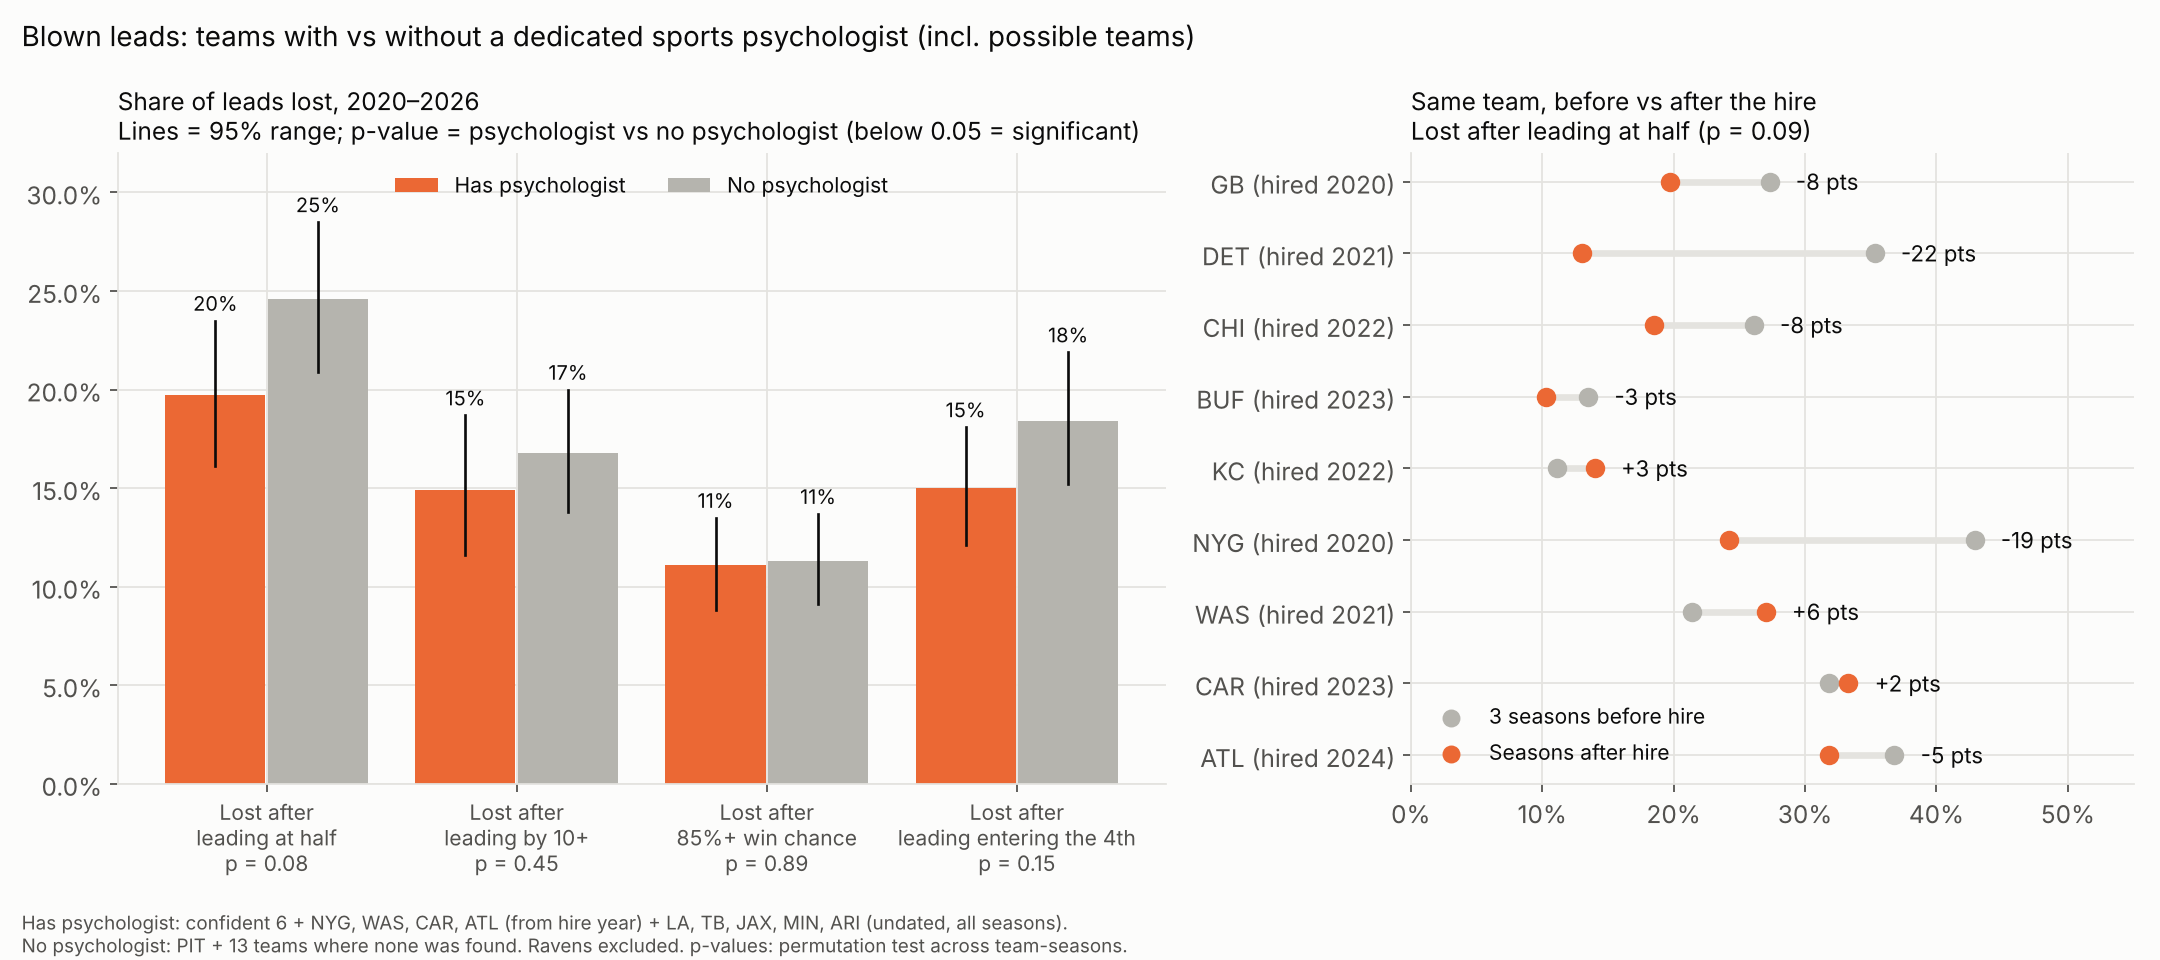
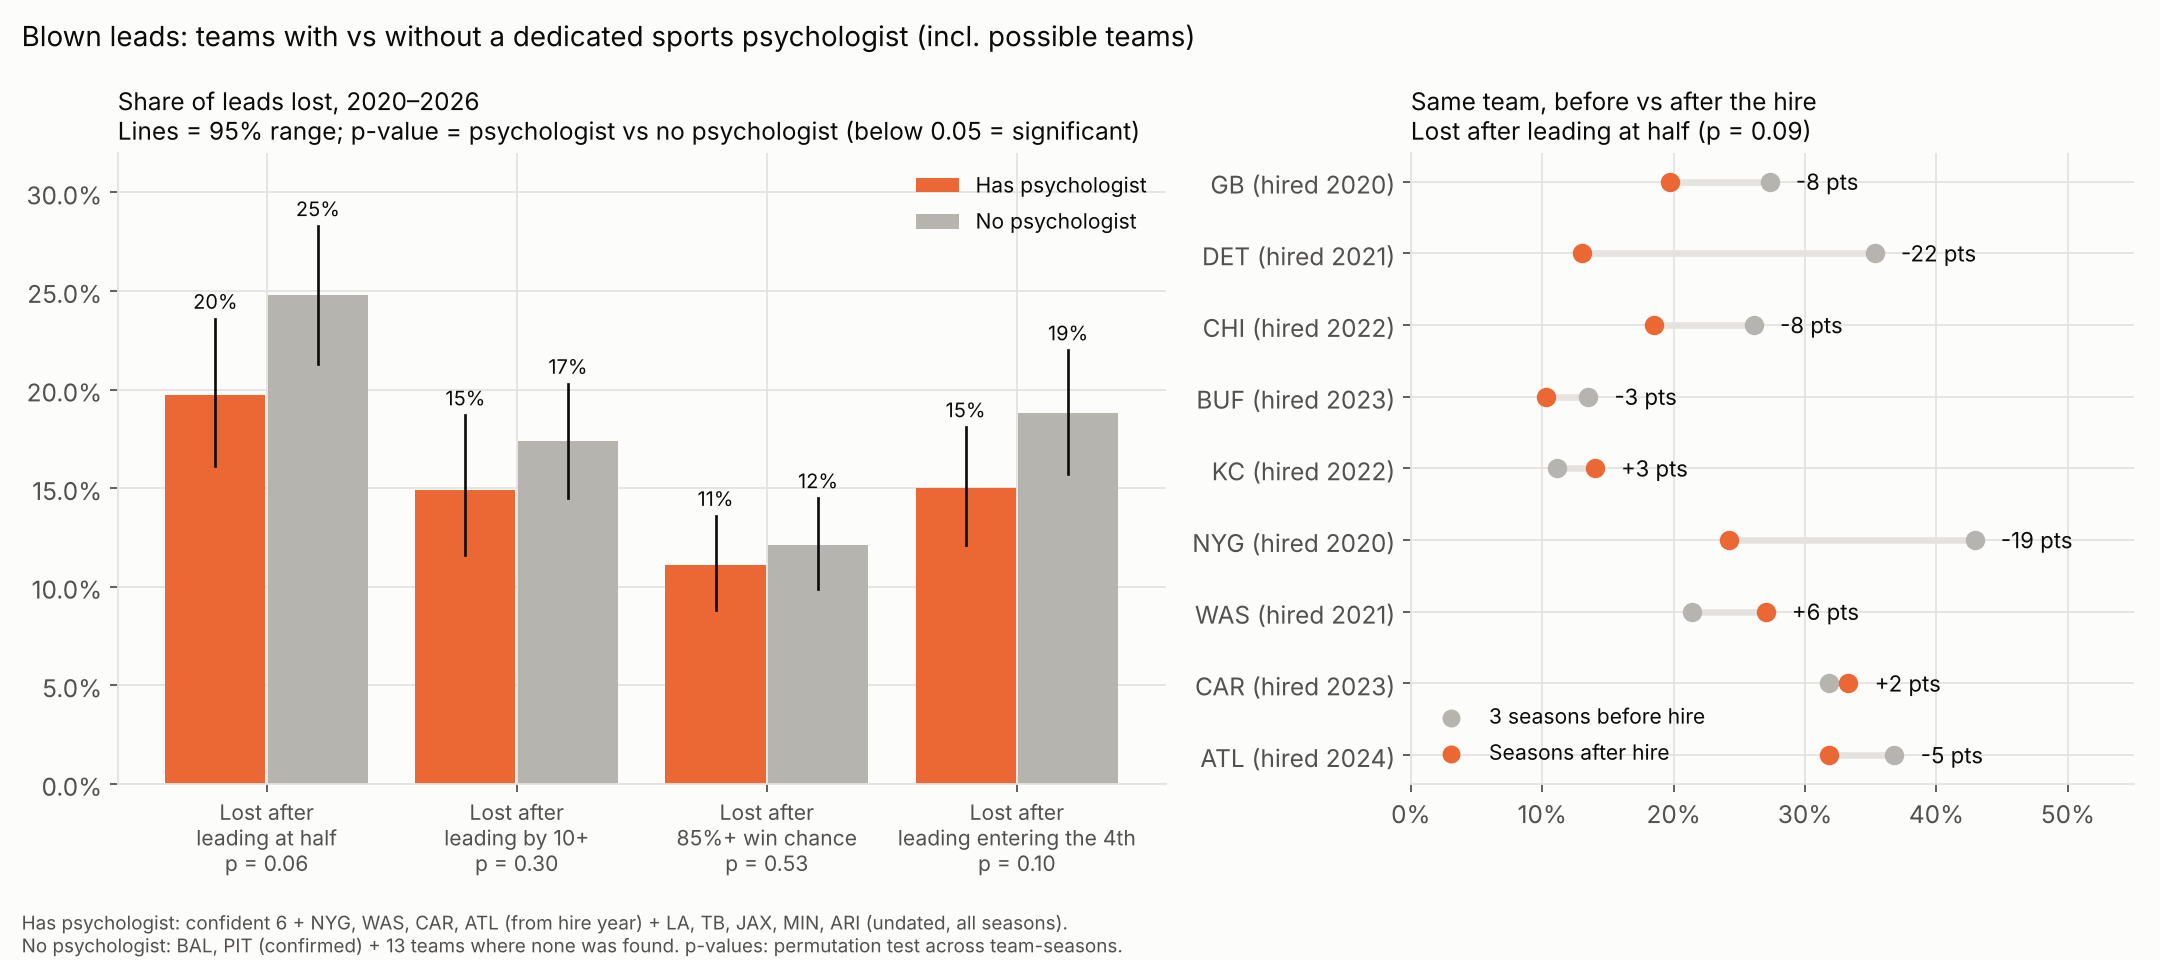
Ravens study: put Ravens in the no-psychologist group for the psychologist comparisons
Claude-Session: https://claude.ai/code/session_01VaajPvovMVPsxphuCeQMVX

diff --git a/analysis/ravens-second-half/charts.py b/analysis/ravens-second-half/charts.py
@@ -190,11 +190,11 @@ def psych_charts(suf, has_label, title_note):
     a2.set_yticks(y, [f'{t} (hired {h})' for t, h in zip(ba.team, ba.hire_season)])
     a2.set_xlim(.15, .95); a2.xaxis.set_major_formatter(matplotlib.ticker.PercentFormatter(1))
     a2.scatter([], [], color=GRAY, s=50, label='3 seasons before hire'); a2.scatter([], [], color=ORANGE, s=50, label='Seasons after hire')
-    a2.legend(frameon=False, loc='lower right', fontsize=9.5)
+    a2.legend(frameon=False, loc='lower left' if suf == '' else 'lower right', fontsize=9.5)
     a2.set_title(f'Same team, before vs after the hire (teams with a known hire year)\np = {p_pair:.2f}', loc='left', fontsize=11)
     gap = pw.loc[names[0], 'win_pct'] - pw.loc[names[1], 'win_pct']
     fig.suptitle(f'Win %: teams with vs without a dedicated sports psychologist {title_note}', x=.01, ha='left', fontsize=12.5)
-    fig.text(.01, .008, f'Has psychologist: {has_label}.\nNo psychologist: PIT + 13 teams where none was found. Ravens excluded. '
+    fig.text(.01, .008, f'Has psychologist: {has_label}.\nNo psychologist: BAL, PIT (confirmed) + 13 teams where none was found. '
              f'Gap {gap * 100:+.0f} pts; p across teams = {p_team:.2f}. Ties = half a win.', fontsize=8.5, color=INK2)
     fig.tight_layout(rect=[0, .06, 1, 1]); fig.savefig(f'{out}/chart_psych_wins{suf}.png', dpi=160); plt.close(fig)
 
@@ -204,8 +204,6 @@ def psych_charts(suf, has_label, title_note):
     labels = ['Lost after leading at half', 'Lost after leading by 10+', 'Lost after 85%+ win chance', 'Lost after leading entering the 4th']
     x = np.arange(len(labels)); w = .36
     groups_ = [('Has psychologist', ORANGE), ('No psychologist', GRAY)]
-    if suf == '':
-        groups_ = [('Ravens', BLUE)] + groups_
     n_ = len(groups_); w = .8 / n_
     for j, (grp_name, col) in enumerate(groups_):
         sub = pb[pb.group == grp_name].set_index('metric').loc[labels]
@@ -216,8 +214,8 @@ def psych_charts(suf, has_label, title_note):
             a1.text(xx, r.ci_high + .005, f'{r.pooled_rate:.0%}', ha='center', fontsize=9)
     tests = pb[pb.group == 'TEST'].set_index('metric').loc[labels]
     a1.set_xticks(x, [f'{l.replace("Lost after ", "Lost after\n")}\np = {tests.loc[l, "p_perm_pooled"]:.2f}' for l in labels], fontsize=9.5)
-    a1.yaxis.set_major_formatter(matplotlib.ticker.PercentFormatter(1)); a1.set_ylim(0, .47 if suf == '' else .32)
-    a1.legend(frameon=False, loc='upper center', ncol=3, fontsize=9.5)
+    a1.yaxis.set_major_formatter(matplotlib.ticker.PercentFormatter(1)); a1.set_ylim(0, .32)
+    a1.legend(frameon=False, loc='upper right', fontsize=9.5)
     a1.set_title('Share of leads lost, 2020–2026\nLines = 95% range; p-value = psychologist vs no psychologist (below 0.05 = significant)', loc='left', fontsize=11)
     y = np.arange(len(bb))[::-1]
     for yy, r in zip(y, bb.itertuples()):
@@ -232,9 +230,8 @@ def psych_charts(suf, has_label, title_note):
     p_pair = _st.ttest_rel(bb.blew_half_after, bb.blew_half_before).pvalue
     a2.set_title(f'Same team, before vs after the hire\nLost after leading at half (p = {p_pair:.2f})', loc='left', fontsize=11)
     fig.suptitle(f'Blown leads: teams with vs without a dedicated sports psychologist {title_note}', x=.01, ha='left', fontsize=12.5)
-    fig.text(.01, .008, f'Has psychologist: {has_label}.\nNo psychologist: PIT + 13 teams where none was found. '
-             + ('Ravens shown for reference, not part of either group or the tests. ' if suf == '' else 'Ravens excluded. ')
-             + 'p-values: permutation test across team-seasons.', fontsize=8.5, color=INK2)
+    fig.text(.01, .008, f'Has psychologist: {has_label}.\nNo psychologist: BAL, PIT (confirmed) + 13 teams where none was found. '
+             'p-values: permutation test across team-seasons.', fontsize=8.5, color=INK2)
     fig.tight_layout(rect=[0, .06, 1, 1]); fig.savefig(f'{out}/chart_psych_blown{suf}.png', dpi=160); plt.close(fig)
 
 psych_charts('', 'GB, DET, CHI, BUF, KC, TEN (from hire year)', '(confident teams)')

diff --git a/analysis/ravens-second-half/psych_groups.py b/analysis/ravens-second-half/psych_groups.py
@@ -3,7 +3,7 @@
 CONFIDENT: clear performance-psychology staff with a known start year.
 POSSIBLE: clinician-type, consultant, or weak/undated source. Start year used where a source gives one;
           undated entries are counted for all of 2020-2026 (so they have no before/after comparison).
-NO: Steelers (confirmed) + 13 teams where no one was found.
+NO: Ravens and Steelers (both confirmed) + 13 teams where no one was found.
 """
 CONFIDENT = {'GB': 2020, 'DET': 2021, 'CHI': 2022, 'BUF': 2023, 'KC': 2022, 'TEN': 2026}
 POSSIBLE = {'NYG': 2020,   # Lani Lawrence, 2020
@@ -12,7 +12,7 @@ POSSIBLE = {'NYG': 2020,   # Lani Lawrence, 2020
             'ATL': 2024,   # Sierra Dimberg, since 2024 (theorg.com)
             'LA': 2020, 'TB': 2020, 'JAX': 2020, 'MIN': 2020, 'ARI': 2020}   # undated
 UNDATED = {'LA', 'TB', 'JAX', 'MIN', 'ARI'}
-NO = ['PIT', 'CIN', 'CLE', 'HOU', 'IND', 'LV', 'LAC', 'DAL', 'NE', 'NYJ', 'NO', 'SF', 'DEN', 'MIA']
+NO = ['BAL', 'PIT', 'CIN', 'CLE', 'HOU', 'IND', 'LV', 'LAC', 'DAL', 'NE', 'NYJ', 'NO', 'SF', 'DEN', 'MIA']
 
 def has_group(variant):
     return dict(CONFIDENT) if variant == 'confident' else {**CONFIDENT, **POSSIBLE}

diff --git a/analysis/ravens-second-half/psych_blown.py b/analysis/ravens-second-half/psych_blown.py
@@ -2,7 +2,7 @@
 
 Usage: python3 psych_blown.py DATA_DIR [confident|expanded]  (pbp_slim.parquet, games.csv, team_games.csv)  ->  writes psych_blown.csv, psych_blown_teams.csv,
        psych_blown_before_after.csv
-Same groups as psych_compare.py / psych_wins.py (Ravens left out). Flags rebuilt from play-by-play for 2017-2026 so
+Groups from psych_groups.py (Ravens are in the no-psychologist group). Flags rebuilt from play-by-play for 2017-2026 so
 the 3 seasons before each hire are available:
   blew10   - led by 10+ at any point and did not win
   wp85     - win probability reached 85%+ and did not win

diff --git a/analysis/ravens-second-half/psych_wins.py b/analysis/ravens-second-half/psych_wins.py
@@ -3,7 +3,7 @@
 Usage: python3 psych_wins.py [confident|expanded]  (team_games.csv, psych_compare.py groups)  ->  writes psych_wins.csv, psych_wins_teams.csv,
        psych_wins_before_after.csv
 Ties count as half a win. Games within a team-season aren't independent, so tests use team-seasons (and teams),
-not single games. Same groups as psych_compare.py; Ravens left out of both.
+not single games. Groups from psych_groups.py (Ravens are in the no-psychologist group).
 """
 import os, sys
 import numpy as np

diff --git a/analysis/ravens-second-half/README.md b/analysis/ravens-second-half/README.md
@@ -426,17 +426,17 @@ Groups:
 ![psych](chart_psych_compare.png)
 
 ## 13. Do teams with a psychologist win more? Is it significant?
-Files: `psych_wins.py` → `psych_wins.csv`, `psych_wins_teams.csv`, `psych_wins_before_after.csv`. Same groups as
-section 12, Ravens left out. Ties = half a win. Tests use team-seasons or teams, not single games, because games
-within a season aren't independent.
+Files: `psych_wins.py` → `psych_wins.csv`, `psych_wins_teams.csv`, `psych_wins_before_after.csv`. Groups from
+`psych_groups.py`. **The Ravens are in the no-psychologist group** (confirmed none, like the Steelers). Ties = half a
+win. Tests use team-seasons or teams, not single games, because games within a season aren't independent.
 
-| | Has psychologist | No psychologist |
+| | Has psychologist | No psychologist (incl. Ravens) |
 |---|---|---|
-| Teams / team-seasons | 6 / 28 | 14 / 98 |
-| Win % | **59.8%** (95% range 51–68%) | **47.8%** (44–51%) |
+| Teams / team-seasons | 6 / 28 | 15 / 105 |
+| Win % | **59.8%** (95% range 52–67%) | **48.6%** (45–51%) |
 
-- **Across team-seasons the +12-point gap is statistically significant** (t-test p = 0.008, permutation test p = 0.002).
-- **Across teams it is not** (6 vs 14 teams, p = 0.15). The group average leans on Buffalo and Kansas City.
+- **Across team-seasons the +11-point gap is statistically significant** (t-test p = 0.011, permutation test p = 0.003).
+- **Across teams it is not** (6 vs 15 teams, p = 0.15). The group average leans on Buffalo and Kansas City.
 - **Before vs after the hire, same team: no significant change** (p = 0.46). Detroit went from 30% to 59%; Green Bay
   +6 points; Chicago, Buffalo and Kansas City were flat or slightly down. Buffalo and Kansas City were already
   winning 73–78% before hiring.
@@ -446,42 +446,42 @@ within a season aren't independent.
 ![psych wins](chart_psych_wins.png)
 
 ## 14. Do teams with a psychologist blow fewer leads? Is it significant?
-Files: `psych_blown.py` → `psych_blown.csv`, `psych_blown_teams.csv`, `psych_blown_before_after.csv`. Same groups as
-sections 12–13, Ravens left out. Blown-lead flags rebuilt from play-by-play for 2017–2026 so the 3 seasons before each
-hire can be compared.
+Files: `psych_blown.py` → `psych_blown.csv`, `psych_blown_teams.csv`, `psych_blown_before_after.csv`,
+`psych_blown_controlled.csv`. Same groups as section 13 (Ravens in the no-psychologist group). Blown-lead flags
+rebuilt from play-by-play for 2017–2026 so the 3 seasons before each hire can be compared.
 
-| Share of leads lost | Has psychologist | No psychologist | Gap | p (team-seasons) | p (teams) |
-|---|---|---|---|---|---|
-| After leading by 10+ | 12% (30 of 243) | 17% (110 of 656) | −4 pts | 0.19 | 0.41 |
-| After an 85%+ win chance | 9% (28 of 301) | 11% (97 of 860) | −2 pts | 0.42 | 0.72 |
-| After leading entering the 4th | 13% (33 of 254) | 18% (132 of 719) | −5 pts | 0.12 | 0.16 |
-| **After leading at half (any margin)** | **15% (36 of 236)** | **25% (180 of 732)** | **−9 pts** | **0.02** | **0.01** |
+| Share of leads lost | Has psychologist | No psychologist (incl. Ravens) | Gap | p (team-seasons) | p (teams) | p (controlled) |
+|---|---|---|---|---|---|---|
+| **After leading at half (any margin)** | **15% (36 of 236)** | **25% (199 of 804)** | **−9 pts** | **0.01** | **0.01** | **0.046** |
+| After leading by 10+ | 12% (30 of 243) | 17% (127 of 731) | −5 pts | 0.13 | 0.35 | 0.19 |
+| After an 85%+ win chance | 9% (28 of 301) | 12% (115 of 947) | −3 pts | 0.25 | 0.62 | 0.50 |
+| After leading entering the 4th | 13% (33 of 254) | 19% (149 of 794) | −6 pts | 0.10 | 0.14 | 0.15 |
 
-p (team-seasons) = permutation test on the pooled rate across team-seasons; p (teams) = Mann-Whitney on each team's
-rate (6 vs 14 teams). A t-test on season averages gives the same answer (p = 0.22–0.95).
+p (team-seasons) = permutation test on the pooled rate across team-seasons. p (teams) = Mann-Whitney on each team's
+rate (6 vs 15 teams). p (controlled) = logistic regression with the pregame Vegas spread and halftime margin as
+controls for team strength, errors clustered by team.
 
 **Before vs after the hire, same team** (3 seasons before vs seasons after):
 
-| Team | Lost after leading by 10+ | Lost after 85%+ | Lost after leading entering the 4th |
-|---|---|---|---|
-| Packers (2020) | 17% → 15% | 7% → 10% | 10% → 15% |
-| Lions (2021) | 50% → 10% | 26% → 7% | 44% → 9% |
-| Bears (2022) | 20% → 22% | 12% → 19% | 27% → 24% |
-| Bills (2023) | 10% → 5% | 9% → 4% | 10% → 9% |
-| Chiefs (2022) | 15% → 8% | 8% → 6% | 12% → 10% |
-| **Paired test** | p = 0.23 | p = 0.51 | p = 0.37 |
+| Team | Lost after leading at half | Lost after leading by 10+ | Lost after 85%+ | Lost after leading entering the 4th |
+|---|---|---|---|---|
+| Packers (2020) | 27% → 20% | 17% → 15% | 7% → 10% | 10% → 15% |
+| Lions (2021) | 35% → 13% | 50% → 10% | 26% → 7% | 44% → 9% |
+| Bears (2022) | 26% → 19% | 20% → 22% | 12% → 19% | 27% → 24% |
+| Bills (2023) | 14% → 10% | 10% → 5% | 9% → 4% | 10% → 9% |
+| Chiefs (2022) | 11% → 14% | 15% → 8% | 8% → 6% | 12% → 10% |
+| **Paired test** | p = 0.14 | p = 0.23 | p = 0.51 | p = 0.37 |
 
-- **Psychologist teams lose leads less often on all four measures. Only one gap is statistically significant: losing
-  after leading at half (15% vs 25%, p = 0.02 across seasons, 0.01 across teams).** The other three are not.
-- **But that one doesn't survive a control for team strength.** Using the pregame Vegas spread and the halftime
-  margin as controls (logistic regression, errors clustered by team), the psychologist effect on halftime leads
-  shrinks to odds 0.77× and p = 0.11 — not significant. None of the four measures is significant after the control
-  (`psych_blown_controlled.csv`). Same team before vs after the hire for halftime leads: 4 of 5 improved, p = 0.14.
-- Same team before vs after: 4 of 5 improved on blown 10+ leads, but most of the average improvement is Detroit
-  (50% → 10%, on only 18 chances before), which also turned from a 30% team into a 59% team. Not significant.
-- Part of the gap is team quality again: the psychologist teams win more (section 13), and winning teams blow fewer leads.
-- **Bottom line:** the direction favors having a psychologist, but with 6 teams the data can't separate it from chance
-  or from team quality. The Ravens (23% / 21% / 23%) are worse than both groups either way.
+- **Psychologist teams lose leads less often on all four measures.** Only losing after leading at half is
+  significant: 15% vs 25%, p = 0.01 across seasons and teams, and it holds just barely (p = 0.046, odds 0.71×) after
+  controlling for team strength. The other three gaps are not significant.
+- **Including the Ravens matters here.** With the Ravens left out, the controlled halftime result was p = 0.11. One
+  team with a lot of blown leads moves it across the line, so treat it as fragile. With four measures tested, one
+  landing near 0.05 can also happen by chance.
+- Same team before vs after: 4 of 5 improved on halftime leads (p = 0.14), driven mostly by Detroit, which also
+  turned from a 30% team into a 59% team. Not significant.
+- **Bottom line:** the direction favors having a psychologist, and the halftime-lead result is borderline
+  significant, but with 6 teams it's not strong evidence.
 
 ![psych blown](chart_psych_blown.png)
 
@@ -489,27 +489,27 @@ rate (6 vs 14 teams). A t-test on season averages gives the same answer (p = 0.2
 Files: `*_expanded.csv`, `chart_psych_wins_expanded.png`, `chart_psych_blown_expanded.png`; groups in `psych_groups.py`.
 Adds Giants (2020–), Commanders (2021–), Panthers (2023–), Falcons (2024–) from their stated start years, and Rams,
 Buccaneers, Jaguars, Vikings, Cardinals for all of 2020–2026 (no date given, so no before/after for them).
-Has-psychologist group becomes 15 teams / 83 team-seasons; the no-psychologist group is unchanged (14 / 98).
+Has-psychologist group becomes 15 teams / 83 team-seasons; the no-psychologist group (incl. Ravens) is 15 / 105.
 
-| | Has psychologist (confident 6) | Has psychologist (all 15) | No psychologist |
+| | Has psychologist (confident 6) | Has psychologist (all 15) | No psychologist (incl. Ravens) |
 |---|---|---|---|
-| Win % | 59.8% (p = 0.002–0.008 seasons; 0.15 teams) | **50.8% (p = 0.25 seasons; 0.91 teams)** | 47.8% |
-| Lost after leading at half | 15% (p = 0.02) | 20% (p = 0.08) | 25% |
-| Lost after leading by 10+ | 12% (p = 0.19) | 15% (p = 0.45) | 17% |
-| Lost after 85%+ win chance | 9% (p = 0.42) | 11% (p = 0.89) | 11% |
-| Lost after leading entering the 4th | 13% (p = 0.12) | 15% (p = 0.15) | 18% |
+| Win % | 59.8% (p = 0.003 seasons; 0.15 teams) | **50.8% (p = 0.34 seasons; 0.97 teams)** | 48.6% |
+| Lost after leading at half | 15% (p = 0.01) | 20% (p = 0.06) | 25% |
+| Lost after leading by 10+ | 12% (p = 0.13) | 15% (p = 0.30) | 17% |
+| Lost after 85%+ win chance | 9% (p = 0.25) | 11% (p = 0.53) | 12% |
+| Lost after leading entering the 4th | 13% (p = 0.10) | 15% (p = 0.10) | 19% |
 
 p-values compare each psychologist group with the no-psychologist group (permutation test across team-seasons).
-Controlled for Vegas spread and halftime margin, none of the expanded-group differences is significant either
-(odds 0.77–0.99, p = 0.10–0.95; `psych_blown_controlled_expanded.csv`). Before vs after hire (9 teams with a
-known year): win % p = 0.21; lost after leading at half 4 of 9 clearly better, p = 0.09.
+Controlled for Vegas spread and halftime margin (`psych_blown_controlled_expanded.csv`): leading entering the 4th
+p = 0.04 (odds 0.72×), leading at half p = 0.06, the other two p = 0.18–0.46. Before vs after hire (9 teams with a
+known year): win % p = 0.21; lost after leading at half p = 0.09.
 
-- **Adding the possible teams shrinks every gap.** The win gap falls from 12 points to 3 and stops being significant.
-  The blown-lead gaps shrink to 0–5 points, none significant.
-- That fits the earlier reading: the confident group's edge came mostly from being better teams (Bills, Chiefs,
-  Packers, Lions). Once more average teams with psychology staff are included, the group looks like everyone else.
-- The direction still leans slightly toward psychologist teams blowing fewer halftime leads, but the data can't
-  separate it from chance or team quality.
+- **Adding the possible teams shrinks the gaps.** The win gap falls from 11 points to 2 and stops being significant.
+  The blown-lead gaps shrink to 1–5 points; none is significant in the simple comparison.
+- After the team-strength control, one of four measures (leading entering the 4th) lands just under 0.05. Like the
+  halftime result above, it's borderline and could be chance with this many tests.
+- **Overall:** there's a consistent lean toward psychologist teams blowing fewer leads, and a couple of borderline
+  results, but no strong, clear evidence.
 
 ![wins expanded](chart_psych_wins_expanded.png)
 ![blown expanded](chart_psych_blown_expanded.png)
